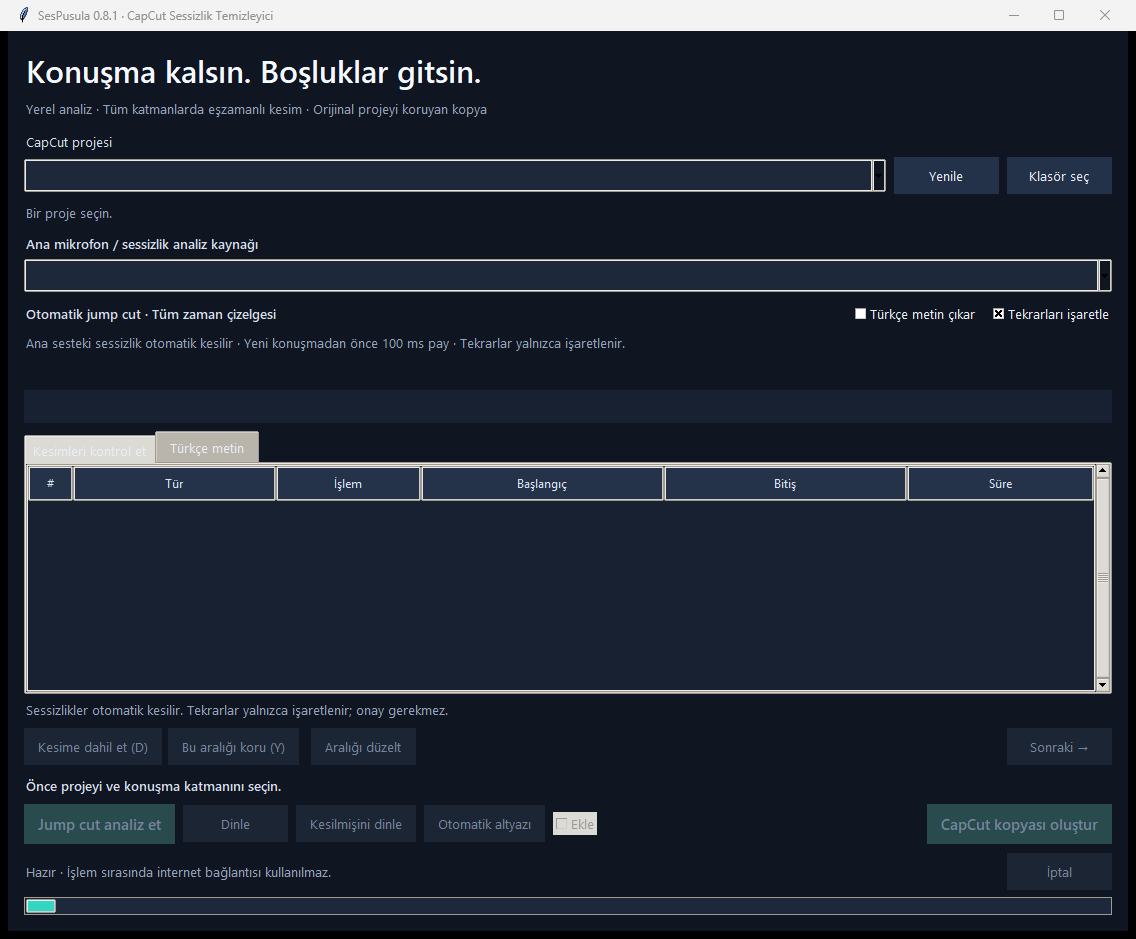
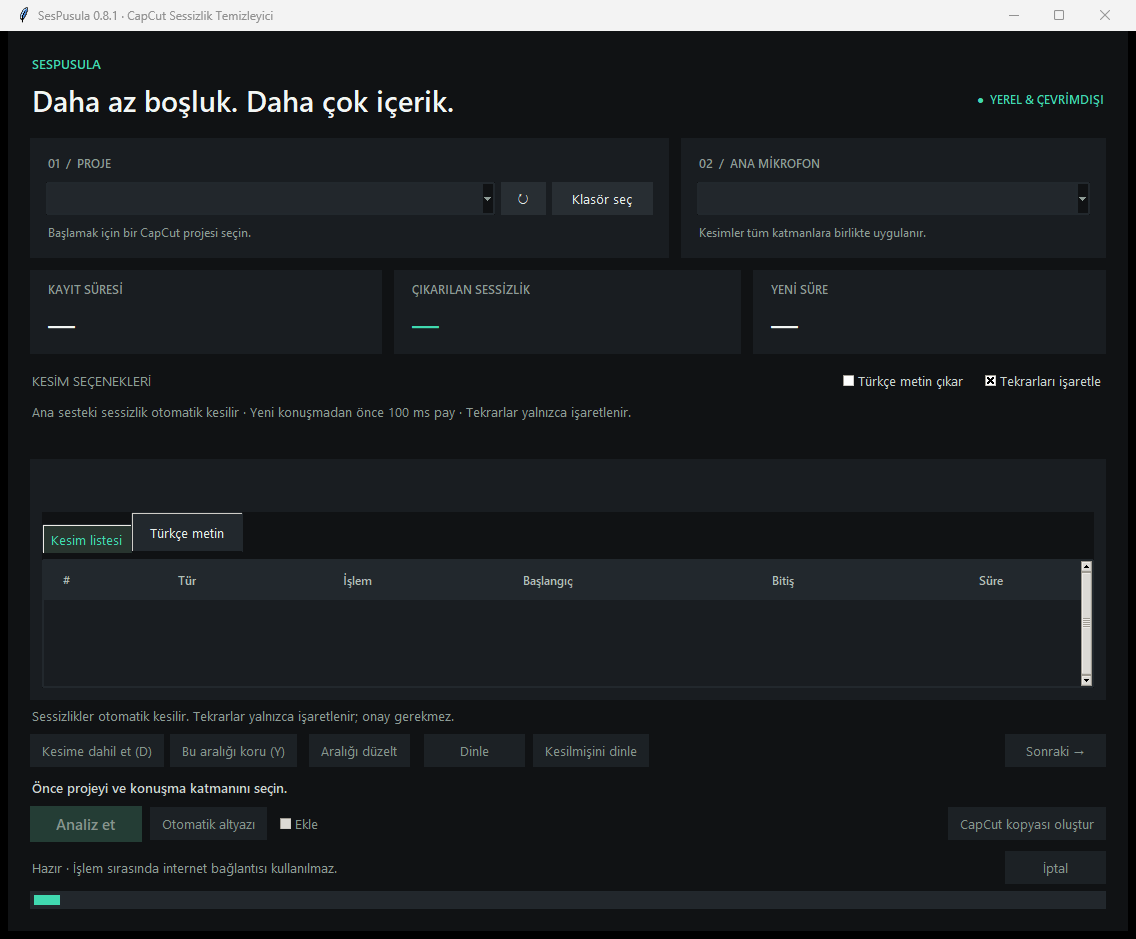
Refresh desktop UI with dark bento cards and live duration summary

diff --git a/app.py b/app.py
@@ -54,7 +54,7 @@ class App(tk.Tk):
         left=max(0,(self.winfo_screenwidth()-width)//2)
         self.geometry(f'{width}x{height}+{left}+30')
         self.minsize(min(940,width),min(700,height))
-        self.configure(bg='#101621')
+        self.configure(bg='#101214')
         self.project = None
         self.caption_words=[]
         self.caption_cues=[]
@@ -92,58 +92,98 @@ class App(tk.Tk):
     def _style(self):
         style = ttk.Style(self)
         style.theme_use('clam')
-        style.configure('.', background='#101621', foreground='#e8edf6', font=('Segoe UI', 10))
-        style.configure('TFrame', background='#101621')
-        style.configure('TLabel', background='#101621', foreground='#d5dfed')
-        style.configure('Title.TLabel', font=('Segoe UI Semibold', 23), foreground='#f4f8ff')
-        style.configure('Sub.TLabel', foreground='#94a5bb')
-        style.configure('TButton', padding=(13,9), background='#243249', borderwidth=0)
-        style.map('TButton', background=[('active','#344761'),('disabled','#1b2533')], foreground=[('disabled','#75859c')])
-        style.configure('Accent.TButton', background='#33d5c3', foreground='#081b1e', font=('Segoe UI Semibold', 11))
-        style.map('Accent.TButton', background=[('active','#65ebdb'),('disabled','#294b4e')])
-        style.configure('TEntry', fieldbackground='#1d293a', foreground='#f4f8ff', padding=7, insertcolor='white')
-        style.configure('TCombobox', fieldbackground='#1d293a', foreground='#f4f8ff', padding=7)
-        style.map('TCombobox', fieldbackground=[('readonly','#1d293a')], selectbackground=[('readonly','#1d293a')], selectforeground=[('readonly','#f4f8ff')])
-        style.configure('Treeview', background='#172131', fieldbackground='#172131', foreground='#edf3fc', rowheight=31, borderwidth=0)
-        style.configure('Treeview.Heading', background='#25334a', foreground='#dae5f5', padding=8)
-        style.map('Treeview', background=[('selected','#28545c')])
-        style.configure('TProgressbar', background='#33d5c3', troughcolor='#1d293a')
-        style.configure('TNotebook',background='#101621',borderwidth=0)
-        style.configure('TNotebook.Tab',background='#25334a',padding=(12,5))
+        style.configure('.', background='#101214', foreground='#e7edeb', font=('Segoe UI', 10))
+        style.configure('TFrame', background='#101214')
+        style.configure('TLabel', background='#101214', foreground='#cbd4d0')
+        style.configure('Title.TLabel', font=('Segoe UI Semibold', 22), foreground='#f2f6f4')
+        style.configure('Sub.TLabel', foreground='#8e9c96')
+        style.configure('TButton', padding=(12,8), background='#282e33', borderwidth=0)
+        style.map('TButton', background=[('active','#353e44'),('disabled','#1c2125')], foreground=[('disabled','#87958e')])
+        style.configure('Accent.TButton', background='#40d9b0', foreground='#09251c', font=('Segoe UI Semibold', 11))
+        style.map('Accent.TButton', background=[('active','#71e8c9'),('disabled','#243d35')])
+        style.configure('TEntry', fieldbackground='#22272c', foreground='#f2f6f4', padding=7, insertcolor='white')
+        style.configure('TCombobox', fieldbackground='#22272c', foreground='#f2f6f4', padding=7)
+        style.map('TCombobox', fieldbackground=[('readonly','#22272c')], selectbackground=[('readonly','#22272c')], selectforeground=[('readonly','#f2f6f4')])
+        style.configure('Treeview', background='#191d21', fieldbackground='#191d21', foreground='#e7edeb', rowheight=36, borderwidth=0, relief='flat')
+        style.configure('Treeview.Heading', background='#22282d', foreground='#b2bfb8', padding=(10,10), relief='flat', font=('Segoe UI Semibold',9))
+        style.map('Treeview', background=[('selected','#20443f')])
+        style.configure('TProgressbar', background='#40d9b0', troughcolor='#22272c')
+        style.configure('TNotebook',background='#101214',borderwidth=0)
+        style.configure('TNotebook.Tab',background='#22282d',padding=(12,5))
+
+        style.configure('Card.TFrame',background='#191d21')
+        style.configure('Brand.TLabel',foreground='#40d9b0',font=('Segoe UI Semibold',10))
+        style.configure('Badge.TLabel',foreground='#40d9b0',font=('Segoe UI Semibold',9))
+        style.configure('CardSub.TLabel',background='#191d21',foreground='#8e9c96',font=('Segoe UI',9))
+        style.configure('Eyebrow.TLabel',background='#191d21',foreground='#8e9c96',font=('Segoe UI Semibold',9))
+        style.configure('Metric.TLabel',background='#191d21',foreground='#f2f6f4',font=('Segoe UI Semibold',20))
+        style.configure('MetricAccent.TLabel',background='#191d21',foreground='#40d9b0',font=('Segoe UI Semibold',20))
+        style.configure('TCheckbutton',background='#101214',foreground='#cbd4d0',padding=(4,5))
+        style.map('TCheckbutton',background=[('active','#101214')],foreground=[('disabled','#87958e')])
+        style.configure('TCombobox',borderwidth=0,arrowsize=14,arrowcolor='#8e9c96',relief='flat')
+        style.configure('TButton',relief='flat',focusthickness=0)
+        style.configure('TNotebook',tabmargins=(0,0,0,8))
+        style.configure('TNotebook.Tab',padding=(16,9),borderwidth=0)
+        style.map('TNotebook.Tab',background=[('selected','#28352f')],foreground=[('selected','#40d9b0')])
+        style.layout('Treeview',[('Treeview.treearea',{'sticky':'nswe'})])
+        style.configure('Vertical.TScrollbar',background='#353e44',troughcolor='#191d21',borderwidth=0,arrowsize=11)
+        style.configure('Thin.Horizontal.TProgressbar',thickness=3,borderwidth=0)
+        for name in ('TCombobox','Treeview','Treeview.Heading','TNotebook','TNotebook.Tab','Thin.Horizontal.TProgressbar'):
+            style.configure(name,bordercolor='#22282d',lightcolor='#22282d',darkcolor='#22282d')
 
     def _build(self):
-        root = ttk.Frame(self, padding=16)
+        root = ttk.Frame(self, padding=22)
         root.pack(fill='both', expand=True)
-        self.intro_frame=ttk.Frame(root);self.intro_frame.pack(fill='x')
-        ttk.Label(self.intro_frame, text='Konuşma kalsın. Boşluklar gitsin.', style='Title.TLabel').pack(anchor='w')
-        ttk.Label(self.intro_frame, text='Yerel analiz · Tüm katmanlarda eşzamanlı kesim · Orijinal projeyi koruyan kopya', style='Sub.TLabel').pack(anchor='w', pady=(5,12))
-        row = ttk.Frame(root);self.project_row=row;row.pack(fill='x')
-        ttk.Label(row,text='CapCut projesi').pack(anchor='w')
-        r = ttk.Frame(row); r.pack(fill='x',pady=(5,8))
-        self.projects = ttk.Combobox(r,state='readonly'); self.projects.pack(side='left',fill='x',expand=True)
-        self.projects.bind('<<ComboboxSelected>>', self.select_project)
-        self.refresh_btn = ttk.Button(r,text='Yenile',command=self.refresh); self.refresh_btn.pack(side='left',padx=8)
-        self.browse_btn = ttk.Button(r,text='Klasör seç',command=self.browse); self.browse_btn.pack(side='left')
-        self.path_text = tk.StringVar(value='Bir proje seçin.')
-        self.path_label=ttk.Label(row,textvariable=self.path_text,style='Sub.TLabel');self.path_label.pack(anchor='w')
-        ttk.Label(root,text='Ana mikrofon / sessizlik analiz kaynağı',font=('Segoe UI Semibold',10)).pack(anchor='w',pady=(10,5))
-        self.tracks=ttk.Combobox(root,state='readonly');self.tracks.pack(fill='x')
+        self.intro_frame=ttk.Frame(root);self.intro_frame.pack(fill='x',pady=(0,16))
+        ttk.Label(self.intro_frame,text='SESPUSULA',style='Brand.TLabel').pack(anchor='w')
+        title_row=ttk.Frame(self.intro_frame);title_row.pack(fill='x',pady=(4,0))
+        ttk.Label(title_row,text='Daha az boşluk. Daha çok içerik.',style='Title.TLabel').pack(side='left')
+        ttk.Label(title_row,text='●  YEREL & ÇEVRİMDIŞI',style='Badge.TLabel').pack(side='right',padx=(12,0))
+        self.project_row=ttk.Frame(root);self.project_row.pack(fill='x')
+        self.project_row.columnconfigure(0,weight=3,uniform='inputs')
+        self.project_row.columnconfigure(1,weight=2,uniform='inputs')
+        row=ttk.Frame(self.project_row,style='Card.TFrame',padding=16)
+        row.grid(row=0,column=0,sticky='nsew',padx=(0,6))
+        ttk.Label(row,text='01  /  PROJE',style='Eyebrow.TLabel').pack(anchor='w',pady=(0,9))
+        r=ttk.Frame(row,style='Card.TFrame');r.pack(fill='x')
+        self.projects=ttk.Combobox(r,state='readonly');self.projects.pack(side='left',fill='x',expand=True)
+        self.projects.bind('<<ComboboxSelected>>',self.select_project)
+        self.refresh_btn=ttk.Button(r,text='↻',width=3,command=self.refresh);self.refresh_btn.pack(side='left',padx=6)
+        self.browse_btn=ttk.Button(r,text='Klasör seç',command=self.browse);self.browse_btn.pack(side='left')
+        self.path_text=tk.StringVar(value='Başlamak için bir CapCut projesi seçin.')
+        self.path_label=ttk.Label(row,textvariable=self.path_text,style='CardSub.TLabel',wraplength=540)
+        self.path_label.pack(anchor='w',pady=(8,0))
+        row.bind('<Configure>',lambda event:self.path_label.configure(wraplength=max(180,event.width-32)))
+        mic=ttk.Frame(self.project_row,style='Card.TFrame',padding=16)
+        mic.grid(row=0,column=1,sticky='nsew',padx=(6,0))
+        ttk.Label(mic,text='02  /  ANA MİKROFON',style='Eyebrow.TLabel').pack(anchor='w',pady=(0,9))
+        self.tracks=ttk.Combobox(mic,state='readonly');self.tracks.pack(fill='x')
         self.tracks.bind('<<ComboboxSelected>>',lambda _:self.invalidate())
-        mode_row=ttk.Frame(root);mode_row.pack(fill='x',pady=(10,0))
-        ttk.Label(mode_row,text='Otomatik jump cut · Tüm zaman çizelgesi',font=('Segoe UI Semibold',10)).pack(side='left')
+        ttk.Label(mic,text='Kesimler tüm katmanlara birlikte uygulanır.',style='CardSub.TLabel').pack(anchor='w',pady=(8,0))
+        self.metrics_row=ttk.Frame(root);self.metrics_row.pack(fill='x',pady=(12,0))
+        self.metric_vars=[tk.StringVar(value='—') for _ in range(3)]
+        for i,label in enumerate(('KAYIT SÜRESİ','ÇIKARILAN SESSİZLİK','YENİ SÜRE')):
+            self.metrics_row.columnconfigure(i,weight=1,uniform='metrics')
+            card=ttk.Frame(self.metrics_row,style='Card.TFrame',padding=(16,10))
+            card.grid(row=0,column=i,sticky='ew',padx=(0 if i==0 else 6,0 if i==2 else 6))
+            ttk.Label(card,text=label,style='Eyebrow.TLabel').pack(anchor='w')
+            ttk.Label(card,textvariable=self.metric_vars[i],style='Metric.TLabel' if i!=1 else 'MetricAccent.TLabel').pack(anchor='w',pady=(4,0))
+        mode_row=ttk.Frame(root);mode_row.pack(fill='x',pady=(12,0))
+        ttk.Label(mode_row,text='KESİM SEÇENEKLERİ',style='Sub.TLabel').pack(side='left')
         self.transcribe_var=tk.BooleanVar(value=self.preferences.get('transcribe_text',False) is True)
         self.suggest_var=tk.BooleanVar(value=True)
         self.suggest_check=ttk.Checkbutton(mode_row,text='Tekrarları işaretle',variable=self.suggest_var,command=self.update_buttons);self.suggest_check.pack(side='right')
         self.transcribe_check=ttk.Checkbutton(mode_row,text='Türkçe metin çıkar',variable=self.transcribe_var,command=self.invalidate);self.transcribe_check.pack(side='right',padx=(0,12))
         self.jump_cut_status=tk.StringVar(value='Ana sesteki sessizlik otomatik kesilir · Yeni konuşmadan önce 100 ms pay · Tekrarlar yalnızca işaretlenir.')
-        ttk.Label(root,textvariable=self.jump_cut_status,style='Sub.TLabel',wraplength=1000).pack(anchor='w',pady=(7,0))
+        self.rule_label=ttk.Label(root,textvariable=self.jump_cut_status,style='Sub.TLabel',wraplength=1000)
+        self.rule_label.pack(anchor='w',pady=(6,0))
         self.compat_text=tk.StringVar(value='')
-        self.compat_label=ttk.Label(root,textvariable=self.compat_text,wraplength=1030,foreground='#edc780');self.compat_label.pack(anchor='w',pady=(8,8))
-        body=ttk.Frame(root)
-        self.canvas=tk.Canvas(body,height=33,bg='#172131',highlightthickness=0)
+        self.compat_label=ttk.Label(root,textvariable=self.compat_text,wraplength=1030,foreground='#bfc9c3');self.compat_label.pack(anchor='w',pady=(8,8))
+        body=ttk.Frame(root,style='Card.TFrame',padding=12)
+        self.canvas=tk.Canvas(body,height=33,bg='#191d21',highlightthickness=0)
         self.canvas.pack(fill='x',pady=(0,8));self.canvas.bind('<Configure>',lambda _:self.draw())
         self.notebook=ttk.Notebook(body);self.notebook.pack(fill='both',expand=True)
-        table=ttk.Frame(self.notebook);self.notebook.add(table,text='Kesimleri kontrol et')
+        table=ttk.Frame(self.notebook);self.notebook.add(table,text='Kesim listesi')
         text_tab=ttk.Frame(self.notebook);self.notebook.add(text_tab,text='Türkçe metin')
         text_actions=ttk.Frame(text_tab);text_actions.pack(fill='x',pady=(0,4))
         self.transcript_listen_btn=ttk.Button(text_actions,text='Seçileni dinle',command=self.listen_transcript);self.transcript_listen_btn.pack(side='left')
@@ -151,20 +191,20 @@ class App(tk.Tk):
         self.transcript_status=tk.StringVar(value='Cümleye tıkla veya metinden bir bölüm seç.')
         ttk.Label(text_actions,textvariable=self.transcript_status,style='Sub.TLabel').pack(side='left',padx=8)
         text_body=ttk.Frame(text_tab);text_body.pack(fill='both',expand=True)
-        self.transcript=tk.Text(text_body,height=5,wrap='word',bg='#172131',fg='#edf3fc',font=('Segoe UI',11),borderwidth=0,padx=12,pady=8,state='disabled',exportselection=False)
+        self.transcript=tk.Text(text_body,height=5,wrap='word',bg='#191d21',fg='#e7edeb',font=('Segoe UI',11),borderwidth=0,padx=12,pady=8,state='disabled',exportselection=False)
         self.transcript.pack(side='left',fill='both',expand=True)
         text_scroll=ttk.Scrollbar(text_body,command=self.transcript.yview);text_scroll.pack(side='right',fill='y');self.transcript.configure(yscrollcommand=text_scroll.set)
-        self.transcript.tag_configure('timestamp',foreground='#82e0d0')
-        self.transcript.tag_configure('chosen',background='#28545c')
+        self.transcript.tag_configure('timestamp',foreground='#40d9b0')
+        self.transcript.tag_configure('chosen',background='#20443f')
         self.transcript.bind('<ButtonRelease-1>',self.select_transcript)
         self.transcript.bind('<KeyRelease>',self.select_transcript)
         columns=('number','kind','decision','start','end','duration')
         self.tree=ttk.Treeview(table,columns=columns,show='headings',selectmode='browse',height=5)
         for col,label,width in [('number','#',45),('kind','Tür',115),('decision','İşlem',145),('start','Başlangıç',155),('end','Bitiş',155),('duration','Süre',100)]:
             self.tree.heading(col,text=label);self.tree.column(col,width=width,anchor='center',stretch=col not in ('number','decision'))
-        self.tree.tag_configure('correct',foreground='#82e0b0')
-        self.tree.tag_configure('wrong',foreground='#f4a690')
-        self.tree.tag_configure('proposal',foreground='#edc780')
+        self.tree.tag_configure('correct',foreground='#40d9b0')
+        self.tree.tag_configure('wrong',foreground='#9aa9a1')
+        self.tree.tag_configure('proposal',foreground='#bfc9c3')
         self.tree.pack(side='left',fill='both',expand=True)
         scroll=ttk.Scrollbar(table,orient='vertical',command=self.tree.yview);scroll.pack(side='right',fill='y');self.tree.configure(yscrollcommand=scroll.set)
         self.tree.bind('<space>',lambda _:self.toggle_selected())
@@ -183,9 +223,9 @@ class App(tk.Tk):
         self.summary=tk.StringVar(value='Önce projeyi ve konuşma katmanını seçin.')
         ttk.Label(tail,textvariable=self.summary,font=('Segoe UI Semibold',10)).pack(anchor='w',pady=(10,8))
         actions=ttk.Frame(tail);actions.pack(fill='x')
-        self.analyze_btn=ttk.Button(actions,text='Jump cut analiz et',style='Accent.TButton',command=self.start_analysis);self.analyze_btn.pack(side='left')
-        self.listen_btn=ttk.Button(actions,text='Dinle',command=lambda:self.listen(False));self.listen_btn.pack(side='left',padx=8)
-        self.after_btn=ttk.Button(actions,text='Kesilmişini dinle',command=lambda:self.listen(True));self.after_btn.pack(side='left')
+        self.analyze_btn=ttk.Button(actions,text='Analiz et',style='Accent.TButton',command=self.start_analysis);self.analyze_btn.pack(side='left')
+        self.listen_btn=ttk.Button(review_row,text='Dinle',command=lambda:self.listen(False));self.listen_btn.pack(side='left',padx=8)
+        self.after_btn=ttk.Button(review_row,text='Kesilmişini dinle',command=lambda:self.listen(True));self.after_btn.pack(side='left')
         self.caption_btn=ttk.Button(actions,text='Otomatik altyazı',command=self.start_captions);self.caption_btn.pack(side='left',padx=8)
         self.caption_toggle_var=tk.BooleanVar(value=False)
         self.caption_toggle=ttk.Checkbutton(actions,text='Ekle',variable=self.caption_toggle_var,command=self.toggle_captions);self.caption_toggle.pack(side='left')
@@ -197,23 +237,21 @@ class App(tk.Tk):
         status_label.grid(row=0,column=0,sticky='ew')
         status_label.bind('<Configure>',lambda event:status_label.configure(wraplength=max(1,min(850,event.width))))
         self.cancel_btn=ttk.Button(footer,text='İptal',command=lambda:self.cancel_event.set());self.cancel_btn.grid(row=0,column=1,sticky='e',padx=(8,0))
-        self.progress=ttk.Progressbar(tail,mode='indeterminate');self.progress.pack(fill='x',pady=(7,0))
+        self.progress=ttk.Progressbar(tail,mode='indeterminate',style='Thin.Horizontal.TProgressbar');self.progress.pack(fill='x',pady=(7,0))
         body.pack(fill='both',expand=True)
         self.update_buttons()
 
     def fit_header(self,event):
         if event.widget is not self:return
-        # Keep the editable content and actions available on short windows.
-        if event.height<800:
-            if self.intro_frame.winfo_manager():self.intro_frame.pack_forget()
-            if self.path_label.winfo_manager():self.path_label.pack_forget()
-            if self.canvas.winfo_manager():self.canvas.pack_forget()
+        compact=event.height<800
+        if compact:
+            for widget in (self.intro_frame,self.rule_label,self.canvas):
+                if widget.winfo_manager():widget.pack_forget()
         else:
-            if not self.intro_frame.winfo_manager():self.intro_frame.pack(fill='x',before=self.project_row)
-            if not self.path_label.winfo_manager():self.path_label.pack(anchor='w')
+            if not self.intro_frame.winfo_manager():self.intro_frame.pack(fill='x',pady=(0,16),before=self.project_row)
+            if not self.rule_label.winfo_manager():self.rule_label.pack(anchor='w',pady=(6,0),before=self.compat_label)
             if not self.canvas.winfo_manager():self.canvas.pack(fill='x',pady=(0,8),before=self.notebook)
         self.selection_changed()
-
 
     def refresh(self):
         try:
@@ -269,6 +307,7 @@ class App(tk.Tk):
         if self.busy:return
         self.cuts=[];self.enabled=set();self.analyzed_track=None;self.review_session=None;self.export_error=None
         self.caption_words=[];self.caption_cues=[];self.caption_signature=None
+        self.update_metrics()
         self.jump_cut_status.set('Tüm zaman çizelgesi · Yeni konuşmadan önce 100 ms pay · Sessizlikler onaysız kesilir.')
         if hasattr(self,'tree'):
             self.tree.delete(*self.tree.get_children());self.summary.set('Ayarlar hazır. Analiz et düğmesine bas.');self.set_transcript('');self.draw();self.update_buttons()
@@ -346,7 +385,7 @@ class App(tk.Tk):
         controls=ttk.Frame(box);controls.pack(side='bottom',fill='x')
         enabled=tk.BooleanVar(value=True)
         ttk.Checkbutton(controls,text='CapCut kopyasına altyazı ekle',variable=enabled).pack(anchor='w',pady=6)
-        editor=tk.Text(controls,height=3,wrap='word',bg='#172131',fg='#edf3fc',insertbackground='white',font=('Segoe UI',11))
+        editor=tk.Text(controls,height=3,wrap='word',bg='#191d21',fg='#e7edeb',insertbackground='white',font=('Segoe UI',11))
         editor.pack(fill='x',pady=(0,6))
         row=ttk.Frame(controls);row.pack(fill='x')
         table=ttk.Treeview(box,columns=('start','end','text'),show='headings',selectmode='browse',height=7)
@@ -552,6 +591,16 @@ class App(tk.Tk):
             self.tree.selection_set(row);self.tree.focus(row);self.tree.see(row)
         self.update_summary();self.draw();self.selection_changed()
 
+    def update_metrics(self):
+        if not hasattr(self,'metric_vars'):return
+        total=self.project.duration if self.project else None
+        removed=0
+        if self.review_session:
+            try:removed=sum(c.duration for c in self.review_session.selected_cuts())
+            except UserError:pass
+        values=(clock(total),clock(removed),clock(max(0,total-removed))) if total is not None else ('—','—','—')
+        for var,value in zip(self.metric_vars,values):var.set(value)
+
     def update_summary(self):
         if not self.project or not self.review_session:return
         try:
@@ -559,6 +608,7 @@ class App(tk.Tk):
         except UserError as exc:
             removed=0;self.export_error=str(exc)
         markers=sum(c.get('marker_only',False) for c in self.review_session.candidates)
+        self.update_metrics()
         self.summary.set(self.export_error or f'{len(self.enabled)} otomatik kesim · {markers} tekrar işareti · Kazanç: {removed/US:.2f} sn · Yeni süre: {clock(self.project.duration-removed)}')
         self.update_buttons()
 
@@ -577,13 +627,13 @@ class App(tk.Tk):
         self.canvas.delete('all')
         if not self.project:return
         w=max(1,self.canvas.winfo_width());dur=self.project.duration
-        self.canvas.create_rectangle(0,12,w,31,fill='#2b5960',outline='')
+        self.canvas.create_rectangle(0,12,w,31,fill='#28352f',outline='')
         for i,c in enumerate(self.cuts):
             marker=self.review_session and self.review_session.candidates[i].get('marker_only')
-            color='#f28f73' if i in self.enabled else ('#edc780' if marker else '#536279')
+            color='#40d9b0' if i in self.enabled else ('#bfc9c3' if marker else '#57635d')
             self.canvas.create_rectangle(c.start/dur*w,12,c.end/dur*w,31,fill=color,outline='')
-        self.canvas.create_text(5,3,text='0:00',fill='#95a6bc',anchor='nw',font=('Segoe UI',8))
-        self.canvas.create_text(w-5,3,text=clock(dur),fill='#95a6bc',anchor='ne',font=('Segoe UI',8))
+        self.canvas.create_text(5,3,text='0:00',fill='#8e9c96',anchor='nw',font=('Segoe UI',8))
+        self.canvas.create_text(w-5,3,text=clock(dur),fill='#8e9c96',anchor='ne',font=('Segoe UI',8))
 
     def toggle_selected(self):
         rows=self.tree.selection()
@@ -685,6 +735,9 @@ class App(tk.Tk):
         if not hasattr(self,'copy_btn'):return
         self.analyze_btn['state']='normal' if self.project and self.track_ids and not self.busy else 'disabled'
         ready=self.captions_ready()
+        copy_primary=bool(self.review_session or self.caption_enabled or ready)
+        self.analyze_btn.configure(style='TButton' if copy_primary else 'Accent.TButton')
+        self.copy_btn.configure(style='Accent.TButton' if copy_primary else 'TButton')
         self.copy_btn['state']='normal' if self.project and self.track_ids and (self.review_session or self.caption_enabled or ready) and not self.busy else 'disabled'
         self.caption_btn['state']='normal' if self.project and self.track_ids and not self.busy else 'disabled'
         self.caption_btn['text']=('Altyazı ✓' if ready else 'Altyazı · otomatik') if self.caption_enabled else 'Otomatik altyazı'

diff --git a/tests/test_gui.py b/tests/test_gui.py
@@ -48,6 +48,18 @@ class GuiTests(unittest.TestCase):
         labels=[w.cget('text') for w in self.descendants(self.app) if w.winfo_class()=='TLabel']
         self.assertNotIn('Başlangıç (sn)',labels);self.assertNotIn('Bitiş (sn)',labels)
 
+    def test_summary_cards_follow_selected_cuts_and_project_reset(self):
+        self.app.review_session=ReviewSession(self.app.project,2,self.app.get_settings(),[Cut(US,3*US)],self.root/'reviews')
+        self.app.cuts=self.app.review_session.cuts;self.app.enabled=self.app.review_session.enabled
+        self.app.populate()
+        self.assertEqual([v.get() for v in self.app.metric_vars],['00:01:00.000','00:00:02.000','00:00:58.000'])
+        self.assertEqual(self.app.copy_btn.cget('style'),'Accent.TButton')
+        self.app.mark_selected('wrong')
+        self.assertEqual([v.get() for v in self.app.metric_vars],['00:01:00.000','00:00:00.000','00:01:00.000'])
+        self.app.invalidate()
+        self.assertEqual(self.app.analyze_btn.cget('style'),'Accent.TButton')
+        self.assertEqual(self.app.metric_vars[1].get(),'00:00:00.000')
+
     def test_prealigned_project_analysis_needs_no_sync_step(self):
         original=self.app.project.data.copy()
         result=AnalysisResult([Cut(2*US,3*US)],[],[],{'engine':'test'},{})

diff --git a/README.md b/README.md
@@ -99,7 +99,7 @@ SesPusula is an independent project and is not affiliated with CapCut.
 
 ## Tests
 
-The current suite has **50 tests**, covering timeline cuts, project copies, subtitles, repeat markers, review state, and interface behavior.
+The current suite has **51 tests**, covering timeline cuts, project copies, subtitles, repeat markers, review state, and interface behavior.
 
 Existing portable environment:
 
@@ -138,3 +138,4 @@ For bug reports, include the application version, CapCut version, and error mess
 Third-party notices are in [Lisanslar](Lisanslar/). A license for the application's own source code has not been selected yet.
 
 [Turkish usage guide](docs/README.tr.md)
+
